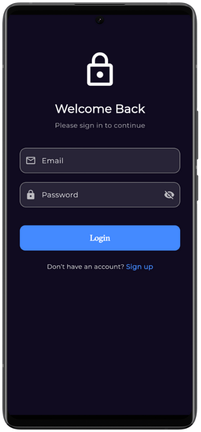
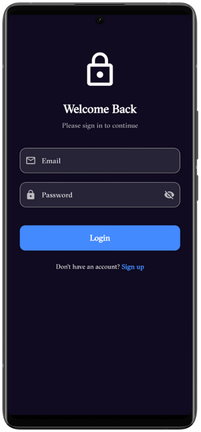
Apply kGtSectraFine font to auth screens and update screenshots
- Update text styles in login and sign-up widgets (headers, text fields, and navigation links) to use the `kGtSectraFine` font family.
- Update `Bookly_login.png` and `Bookly_sign_up.png` assets to reflect the typography changes.

diff --git a/lib/features/auth/sign_up/presentation/widgets/sign_up_view_body.dart b/lib/features/auth/sign_up/presentation/widgets/sign_up_view_body.dart
@@ -1,5 +1,6 @@
 import 'package:book_store_app/Features/auth/sign_up/presentation/widgets/sign_up_bloc_listener.dart';
 import 'package:book_store_app/Features/auth/sign_up/presentation/widgets/sign_up_form.dart';
+import 'package:book_store_app/constants.dart';
 import 'package:flutter/material.dart';
 
 class SignUpViewBody extends StatelessWidget {
@@ -23,6 +24,7 @@ class SignUpViewBody extends StatelessWidget {
               "Create Account",
               style: TextStyle(
                 color: Colors.white,
+                fontFamily: kGtSectraFine,
                 fontSize: 26,
                 fontWeight: FontWeight.bold,
               ),
@@ -32,7 +34,11 @@ class SignUpViewBody extends StatelessWidget {
               opacity: .7,
               child: Text(
                 "Sign up to get started",
-                style: TextStyle(fontSize: 15, color: Colors.white),
+                style: TextStyle(
+                  fontSize: 15,
+                  color: Colors.white,
+                  fontFamily: kGtSectraFine,
+                ),
               ),
             ),
             SizedBox(height: 35),

diff --git a/lib/features/auth/sign_up/presentation/widgets/already_have_account.dart b/lib/features/auth/sign_up/presentation/widgets/already_have_account.dart
@@ -1,3 +1,4 @@
+import 'package:book_store_app/constants.dart';
 import 'package:book_store_app/core/utils/app_router.dart';
 import 'package:flutter/material.dart';
 import 'package:go_router/go_router.dart';
@@ -15,7 +16,11 @@ class AlreadyHaveAccount extends StatelessWidget {
         const Text(
           "Already have an account? ",
           style: TextStyle(
-              fontWeight: FontWeight.bold, color: Colors.white70, fontSize: 14),
+            fontWeight: FontWeight.bold,
+            color: Colors.white70,
+            fontSize: 14,
+            fontFamily: kGtSectraFine,
+          ),
         ),
         GestureDetector(
           onTap: () {
@@ -25,6 +30,7 @@ class AlreadyHaveAccount extends StatelessWidget {
             "Login",
             style: TextStyle(
               color: Colors.blueAccent,
+              fontFamily: kGtSectraFine,
               fontWeight: FontWeight.bold,
               fontSize: 15,
             ),

diff --git a/lib/features/auth/login/presentation/widgets/login_view_body.dart b/lib/features/auth/login/presentation/widgets/login_view_body.dart
@@ -1,5 +1,6 @@
 import 'package:book_store_app/Features/auth/login/presentation/widgets/login_bloc_listener.dart';
 import 'package:book_store_app/Features/auth/login/presentation/widgets/login_form.dart';
+import 'package:book_store_app/constants.dart';
 import 'package:flutter/material.dart';
 
 class LoginViewBody extends StatelessWidget {
@@ -24,6 +25,7 @@ class LoginViewBody extends StatelessWidget {
               "Welcome Back",
               style: TextStyle(
                 color: Colors.white,
+                fontFamily: kGtSectraFine,
                 fontSize: 26,
                 fontWeight: FontWeight.bold,
               ),
@@ -35,6 +37,7 @@ class LoginViewBody extends StatelessWidget {
               child: Text(
                 "Please sign in to continue",
                 style: TextStyle(
+                  fontFamily: kGtSectraFine,
                   fontSize: 15,
                   color: Colors.white,
                 ),

diff --git a/lib/features/auth/login/presentation/widgets/dont_have_account.dart b/lib/features/auth/login/presentation/widgets/dont_have_account.dart
@@ -1,3 +1,4 @@
+import 'package:book_store_app/constants.dart';
 import 'package:book_store_app/core/utils/app_router.dart';
 import 'package:flutter/material.dart';
 import 'package:go_router/go_router.dart';
@@ -14,7 +15,11 @@ class DontHaveAccount extends StatelessWidget {
       children: [
         const Text(
           "Don’t have an account? ",
-          style: TextStyle(color: Colors.white, fontSize: 14),
+          style: TextStyle(
+            color: Colors.white,
+            fontSize: 14,
+            fontFamily: kGtSectraFine,
+          ),
         ),
         GestureDetector(
           onTap: () {
@@ -23,6 +28,7 @@ class DontHaveAccount extends StatelessWidget {
           child: const Text(
             "Sign up",
             style: TextStyle(
+              fontFamily: kGtSectraFine,
               color: Colors.blueAccent,
               fontWeight: FontWeight.bold,
               fontSize: 15,

diff --git a/lib/features/auth/login/presentation/widgets/custom_text_form_field.dart b/lib/features/auth/login/presentation/widgets/custom_text_form_field.dart
@@ -1,3 +1,4 @@
+import 'package:book_store_app/constants.dart';
 import 'package:book_store_app/core/function/build_enabled_border.dart';
 import 'package:book_store_app/core/function/build_focused_border.dart';
 import 'package:flutter/material.dart';
@@ -65,6 +66,7 @@ class _AppTextFormFieldState extends State<AppTextFormField> {
             : null,
         labelStyle: const TextStyle(
           color: Colors.white,
+          fontFamily: kGtSectraFine,
         ),
         filled: true,
         fillColor: Colors.white.withOpacity(
